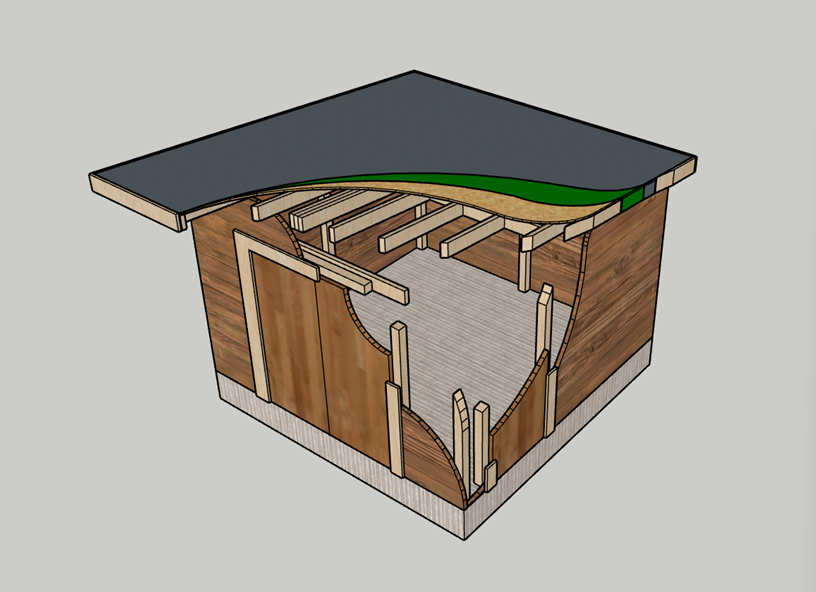
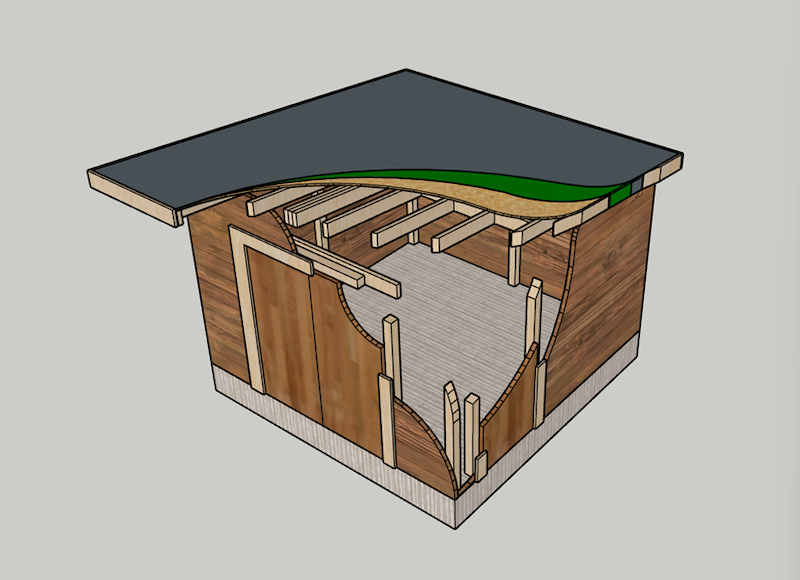
Laggy animations and not great on full size...

diff --git a/src/pages/projects/Workshop.tsx b/src/pages/projects/Workshop.tsx
@@ -17,50 +17,54 @@ const scrollSections: {
   image: PostCardImage;
   rotation?: Rotation;
 }[] = [
+  //   {
+  //     image: WorkshopImages.threeDCutAwaySm,
+  //     position: {
+  //       top: 100,
+  //       right: 100,
+  //     },
+  //     rotation: 'LittleClockwise',
+  //   },
   {
-    image: WorkshopImages.threeDCutAway,
+    image: WorkshopImages.threeDFullLocationSm,
     position: {
-      top: 100,
-      right: 100,
+      top: 1,
+      left: 20,
+    },
+    rotation: 'LittleCounterClockwise',
+  },
+  {
+    image: WorkshopImages.threeDCutAwayLocationSm,
+    position: {
+      bottom: 1,
+      right: 20,
     },
   },
   {
-    image: WorkshopImages.threeDFullLocation,
+    image: WorkshopImages.RealBaseSm,
     position: {
-      top: 100,
-      left: 100,
+      bottom: 20,
+      left: 1,
     },
+    rotation: 'LittleClockwise',
   },
   {
-    image: WorkshopImages.threeDCutAwayLocation,
+    image: WorkshopImages.RealWallsSm,
     position: {
-      bottom: 100,
-      right: 100,
+      top: 20,
+      right: 1,
     },
+    rotation: 'LittleCounterClockwise',
   },
+  //   {
+  //     image: WorkshopImages.RealRoofStructureSm,
+  //     position: {
+  //       top: 100,
+  //       left: 150,
+  //     },
+  //   },
   {
-    image: WorkshopImages.RealBase,
-    position: {
-      bottom: 100,
-      left: 100,
-    },
-  },
-  {
-    image: WorkshopImages.RealWalls,
-    position: {
-      top: 100,
-      right: 150,
-    },
-  },
-  {
-    image: WorkshopImages.RealRoofStructure,
-    position: {
-      top: 100,
-      left: 150,
-    },
-  },
-  {
-    image: WorkshopImages.RealFullSide,
+    image: WorkshopImages.RealFullSideSm,
     position: {
       bottom: 100,
       right: 100,
@@ -86,25 +90,26 @@ const ScrollSectionCard = ({
   children: React.ReactNode;
 }) => {
   const { scrollYProgress } = useScroll({ container: scrollRef });
+
   const top = useTransform(
     scrollYProgress,
     [scrollLimit.start, scrollLimit.end],
-    [-400, position.top ?? 0],
+    [-1000, position.top ?? 0],
   );
   const right = useTransform(
     scrollYProgress,
     [scrollLimit.start, scrollLimit.end],
-    [-400, position.right ?? 0],
+    [-1000, position.right ?? 0],
   );
   const left = useTransform(
     scrollYProgress,
     [scrollLimit.start, scrollLimit.end],
-    [-400, position.left ?? 0],
+    [-1000, position.left ?? 0],
   );
   const bottom = useTransform(
     scrollYProgress,
     [scrollLimit.start, scrollLimit.end],
-    [-400, position.bottom ?? 0],
+    [-1000, position.bottom ?? 0],
   );
   return (
     <motion.div
@@ -116,7 +121,6 @@ const ScrollSectionCard = ({
       }}
       className={css({
         width: 400,
-        // height: 400,
         position: 'absolute',
         display: 'flex',
         alignItems: 'center',
@@ -254,6 +258,7 @@ export function Workshop() {
               color: 'brand.darkBrown',
               fontWeight: 'bold',
               zIndex: 10,
+              flexGrow: 0,
               backgroundColor: 'brand.cream',
               borderColor: 'brand.darkBrown',
               borderWidth: '2px',
@@ -264,41 +269,54 @@ export function Workshop() {
           </h1>
           <div
             className={css({
-              width: '70vh',
+              width: '100%',
+              height: '100%',
+              flexGrow: 1,
+              position: 'relative',
             })}
           >
-            <PostCard image={WorkshopImages.shedLayout} />
+            <div
+              className={css({
+                maxWidth: '2xl',
+                width: '70vw',
+                borderColor: 'brand.darkBrown',
+                borderWidth: '2px',
+                borderStyle: 'solid',
+                marginX: 'auto',
+              })}
+            >
+              <PostCard image={WorkshopImages.shedLayout} />
+            </div>
+            {scrollSections.map((c, index) => {
+              const length = scrollSections.length;
+              const start = index / length;
+              const end = (index + 1) / length;
+              return (
+                <ScrollSectionCard
+                  key={index}
+                  scrollRef={scrollRef}
+                  position={c.position}
+                  scrollLimit={{ start, end }}
+                >
+                  <div
+                    // animate={{
+                    //   rotate: rotationToDegrees(c.rotation ?? 'None'),
+                    // }}
+                    className={css({
+                      width: '100%',
+                      height: '100%',
+                      display: 'flex',
+                      alignItems: 'center',
+                      justifyContent: 'center',
+                    })}
+                  >
+                    <PostCard image={c.image} />
+                  </div>
+                </ScrollSectionCard>
+              );
+            })}
           </div>
         </div>
-
-        {scrollSections.map((c, index) => {
-          const length = scrollSections.length;
-          const start = index / length;
-          const end = (index + 1) / length;
-          return (
-            <ScrollSectionCard
-              key={index}
-              scrollRef={scrollRef}
-              position={c.position}
-              scrollLimit={{ start, end }}
-            >
-              <motion.div
-                animate={{
-                  rotate: rotationToDegrees(c.rotation ?? 'None'),
-                }}
-                className={css({
-                  width: '100%',
-                  height: '100%',
-                  display: 'flex',
-                  alignItems: 'center',
-                  justifyContent: 'center',
-                })}
-              >
-                <PostCard image={c.image} />
-              </motion.div>
-            </ScrollSectionCard>
-          );
-        })}
       </ViewportDiv>
     </>
   );

diff --git a/src/assets/img/projects/Workshop/index.ts b/src/assets/img/projects/Workshop/index.ts
@@ -1,10 +1,20 @@
 export { default as shedLayout } from './Shed_Layout.png';
 export { default as threeDCutAway } from './3d_Cut_Away.png';
 export { default as threeDFullLocation } from './3d_Full_Location.png';
-export { default as unnamed26 } from './unnamed-26.png';
+export { default as threeDLowLocation } from './3d_Low_Location.png';
 export { default as threeDCutAwayLocation } from './3d_Cut_Away_Location.png';
 export { default as RealRoofStructure } from './Real_Roof_Structure.jpg';
 export { default as RealFullSide } from './Real_Full_Side.jpg';
 export { default as RealWalls } from './Real_Walls.jpg';
 export { default as RealFullFront } from './Real_Full_Front.jpg';
 export { default as RealBase } from './Real_Base.jpg';
+export { default as shedLayoutSm } from './Shed_Layout_Sm.jpg';
+export { default as threeDCutAwaySm } from './3d_Cut_Away_Sm.jpg';
+export { default as threeDFullLocationSm } from './3d_Full_Location_Sm.jpg';
+export { default as threeDLowLocationSm } from './3d_Low_Location_Sm.jpg';
+export { default as threeDCutAwayLocationSm } from './3d_Cut_Away_Location_Sm.jpg';
+export { default as RealRoofStructureSm } from './Real_Roof_Structure_Sm.jpg';
+export { default as RealFullSideSm } from './Real_Full_Side_Sm.jpg';
+export { default as RealWallsSm } from './Real_Walls_Sm.jpg';
+export { default as RealFullFrontSm } from './Real_Full_Front_Sm.jpg';
+export { default as RealBaseSm } from './Real_Base_Sm.jpg';
